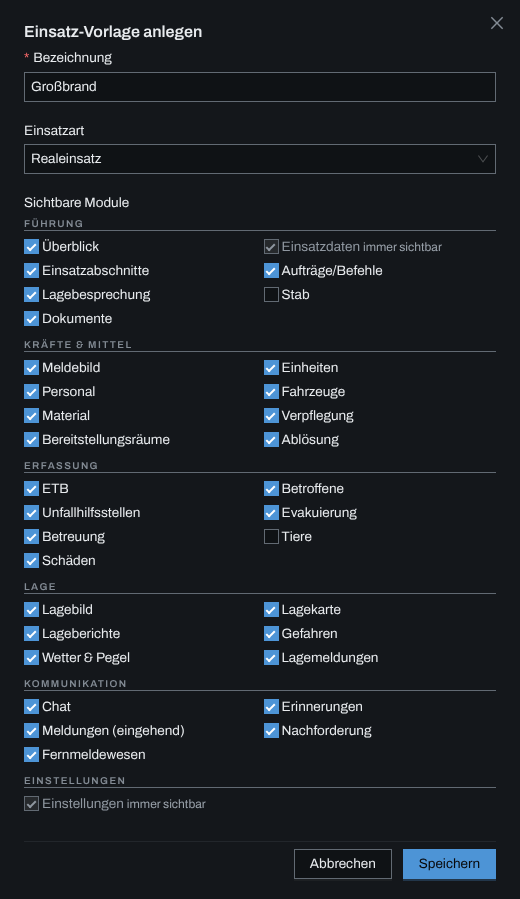
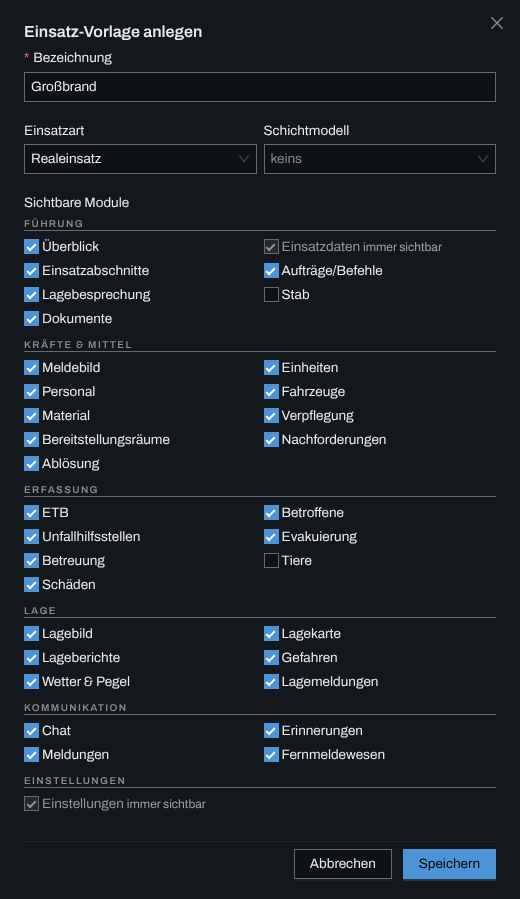
docs(anwender): Bild „Einsatz-Vorlage anlegen“ mit Schichtmodell
Das Formular zeigt jetzt die Auswahl „Schichtmodell“ neben der
Einsatzart; Bild hell und dunkel neu erzeugt, Alt-Text nachgezogen.

LLH-1313
Zunder: https://zunder.rubeen.dev/#/aufgabe/ktc297txftetcuf45606cwdn

Claude-Session: https://claude.ai/code/session_01BgRwpc8pCT2b27JJ6zHEPd

diff --git a/docs/anwender/kapitel/stammdaten.md b/docs/anwender/kapitel/stammdaten.md
@@ -113,7 +113,7 @@ Sanitätsdienst. Wer einen Einsatz anlegt, wählt sie im Dialog „Neuen Einsatz
 4. Unter „Sichtbare Module“ die Häkchen der Module entfernen, die der Einsatz nicht zeigen soll.
    Die Module stehen nach den Kategorien der Navigation.
 
-   ![Dialog „Einsatz-Vorlage anlegen“ mit Bezeichnung „Großbrand“, Einsatzart „Realeinsatz“ und den sichtbaren Modulen nach Kategorien, „Stab“ und „Tiere“ ohne Häkchen](../bilder/stammdaten/einsatz-vorlage-anlegen.png)
+   ![Dialog „Einsatz-Vorlage anlegen“ mit Bezeichnung „Großbrand“, Einsatzart „Realeinsatz“, daneben Schichtmodell „keins“, und den sichtbaren Modulen nach Kategorien, „Stab“ und „Tiere“ ohne Häkchen](../bilder/stammdaten/einsatz-vorlage-anlegen.png)
 
 5. „Speichern“ wählen.
 
